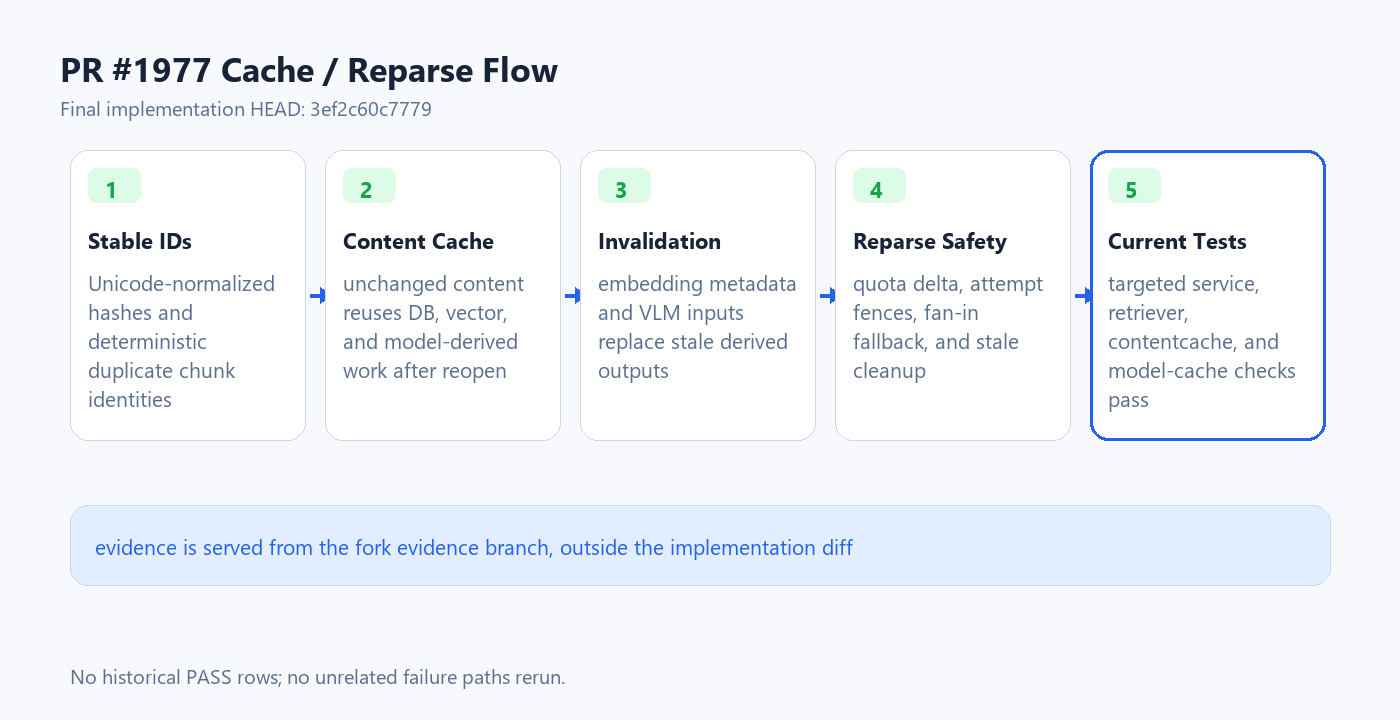
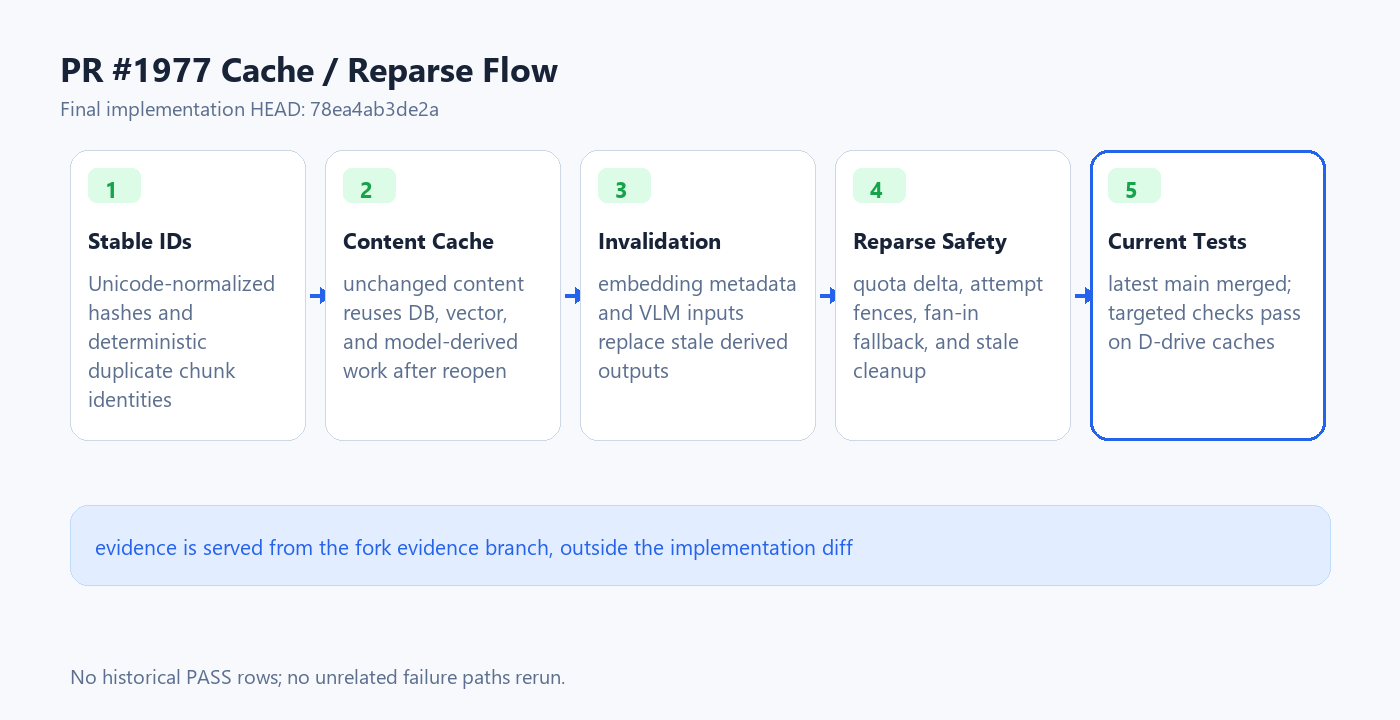
docs: refresh PR 1977 evidence after latest main merge

Changed region(s): [[0.7986, 0.3667, 0.9214, 0.5194], [0.215, 0.1222, 0.3071, 0.1833], [0.7986, 0.55, 0.8293, 0.5806]]

diff --git a/docs/pr-1977-evidence/README.md b/docs/pr-1977-evidence/README.md
@@ -1,10 +1,10 @@
 # PR #1977 verification evidence
 
-Final implementation HEAD: `3ef2c60c7779c3dbc63b84e5373f5238c7c6b241`
+Final implementation HEAD: `78ea4ab3de2ac2c858e15acb48de27c7fa80f315`
 
-Latest official main: `f7ef782d585f149613b0e443e8575689bb2d3ab9`
+Latest official main: `8dd997f0f406c19ce4ec9acd622456d24eac2130`
 
-Merge-base after merge: `f7ef782d585f149613b0e443e8575689bb2d3ab9`
+Merge-base after merge: `8dd997f0f406c19ce4ec9acd622456d24eac2130`
 
 Implementation branch: `codex/issue-1679-content-cache`
 
@@ -34,14 +34,15 @@ All Go build/test cache, module cache, temporary files, and CGO artifacts were k
 
 ## Current verification
 
-- `go test ./internal/contentcache ./internal/application/repository/retriever/sqlite ./internal/application/repository/retriever/postgres -run 'Test(StableChunkID|CacheKeys|SQLite|Postgres)' -count=1` - PASS
+- `go test ./internal/application/repository/retriever/sqlite -count=1` - PASS
+- `go test ./internal/application/repository/retriever/postgres -count=1` - PASS
+- `go test ./internal/contentcache -count=1` - PASS
 - `go test ./internal/application/service -run 'Test(NextStableChunkID|MultimodalPendingKey|StableGeneratedQuestionID|GraphExtractCache|WikiMapCache|UpsertStableChunks|CollectReparse|DeleteReparse|KnowledgePostProcessSkipsSupersededAttempt|EnqueueImageMultimodalTasks|ImageMultimodalFinalizeFallbacks)' -count=1` - PASS
-- `go test ./internal/models/embedding -run 'TestCachedEmbedder(ReusesRedisCacheAcrossWrapperRebuild|InvalidatesOnConcreteModelMetadata|SingleflightsConcurrentMissSet|SingleflightsConcurrentBatchMissSet)' -count=1` - PASS
 - `go test ./internal/contentcache ./internal/models/embedding ./internal/application/repository/retriever/sqlite ./internal/application/repository/retriever/postgres ./internal/application/service -run '^$' -count=1` - PASS
 - `git diff --check` - PASS
 - `git diff --cached --check` - PASS
 
-Only evidence files were moved after the code validation commands above; implementation code did not change after those test runs.
+Only evidence files and the PR body were updated after the code validation commands above; implementation code did not change after those test runs.
 
 ## Not run
 
